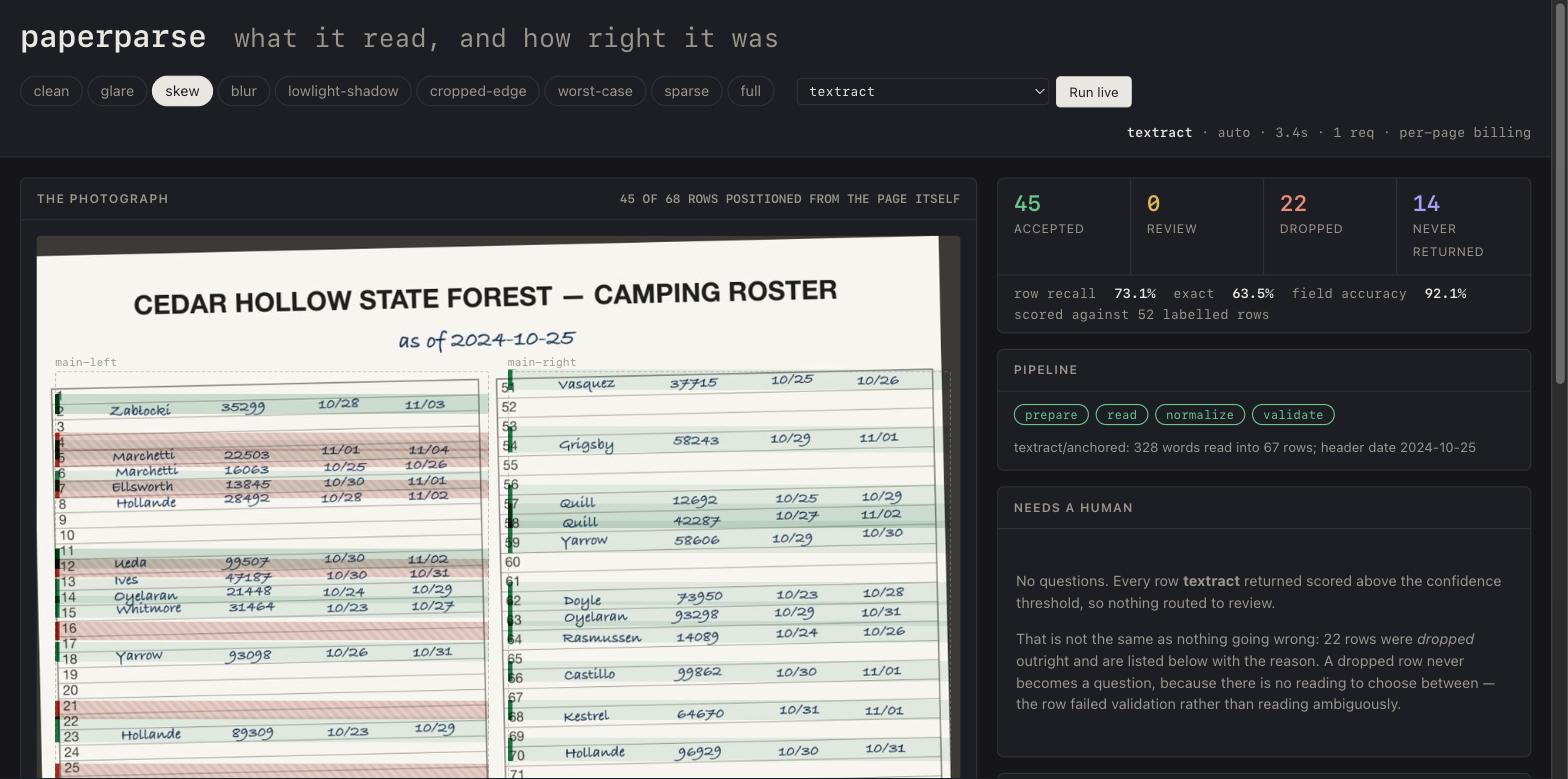
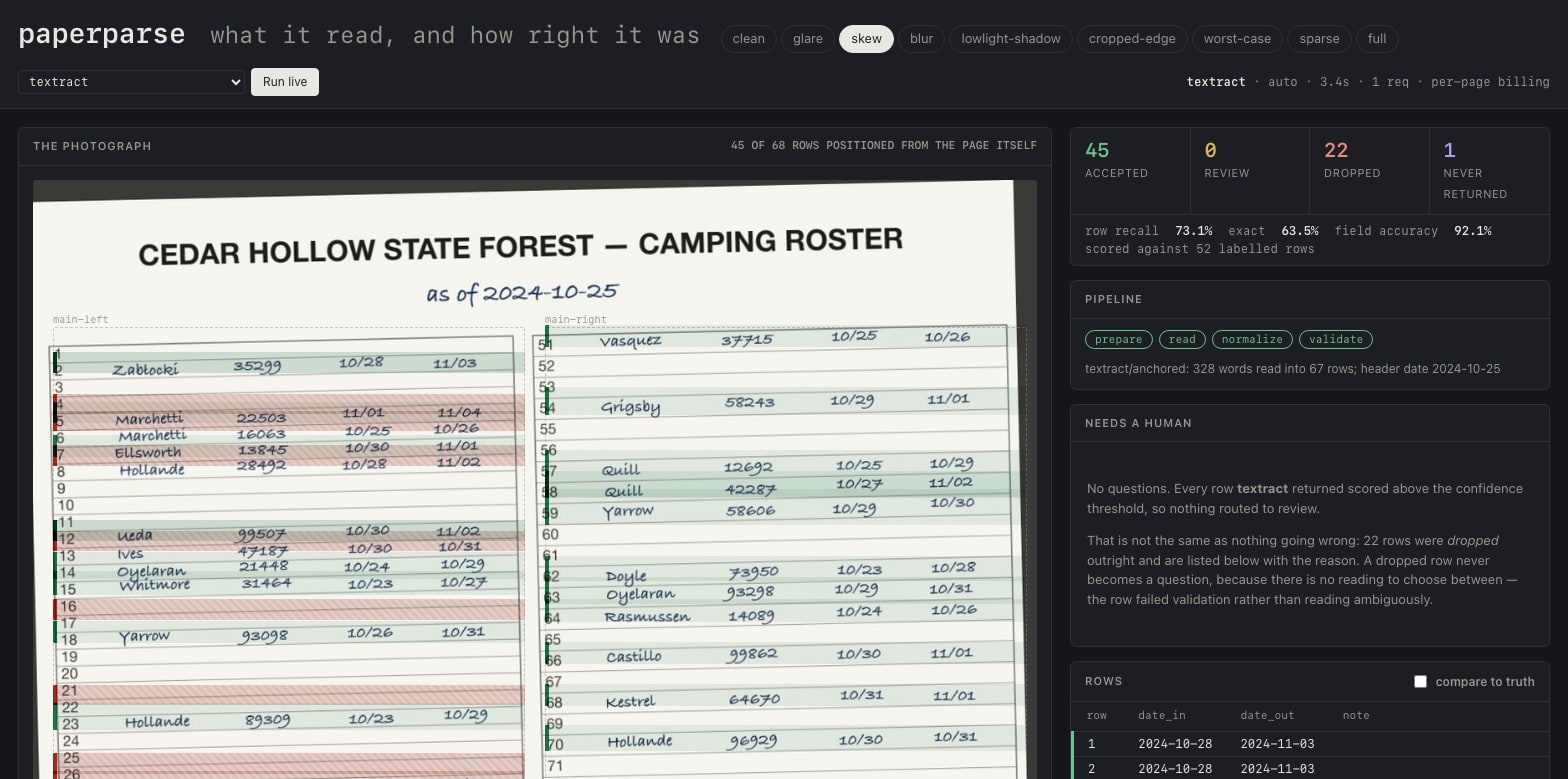
Count a dropped row as dropped in the viewer's never-returned tile
The tile counted every labelled row that was not accepted, so on skew it showed
14 where 13 of those had been returned and dropped. It now counts from the same
row states the sheet draws: 1. The screenshot is retaken.

Also opens the run named in the URL hash, so a link can point at one.

diff --git a/ui/index.html b/ui/index.html
@@ -364,7 +364,10 @@ async function boot() {
   }
 
   renderTabs()
-  if (state.index.length > 0) await load(state.index[0].id)
+  // `#skew` opens that run, so a link can point at one.
+  const asked = decodeURIComponent(location.hash.slice(1))
+  const first = state.index.find((entry) => entry.id === asked) ?? state.index[0]
+  if (first) await load(first.id)
   else renderEmpty()
 }
 
@@ -546,8 +549,10 @@ function bandRect(run, key, info) {
 
 function renderStats() {
   const run = state.run
+  // Counted from the same states the sheet draws, so a labelled row that came back
+  // and was dropped is a drop here too, not a row that was never returned.
   const missing = run.gold
-    ? run.gold.rows.filter((g) => ![...run.rows, ...run.uncertainRows].some((r) => r.rowKey === g.rowKey)).length
+    ? [...rowStates().values()].filter((s) => s.status === 'miss').length
     : null
 
   const cells = [
